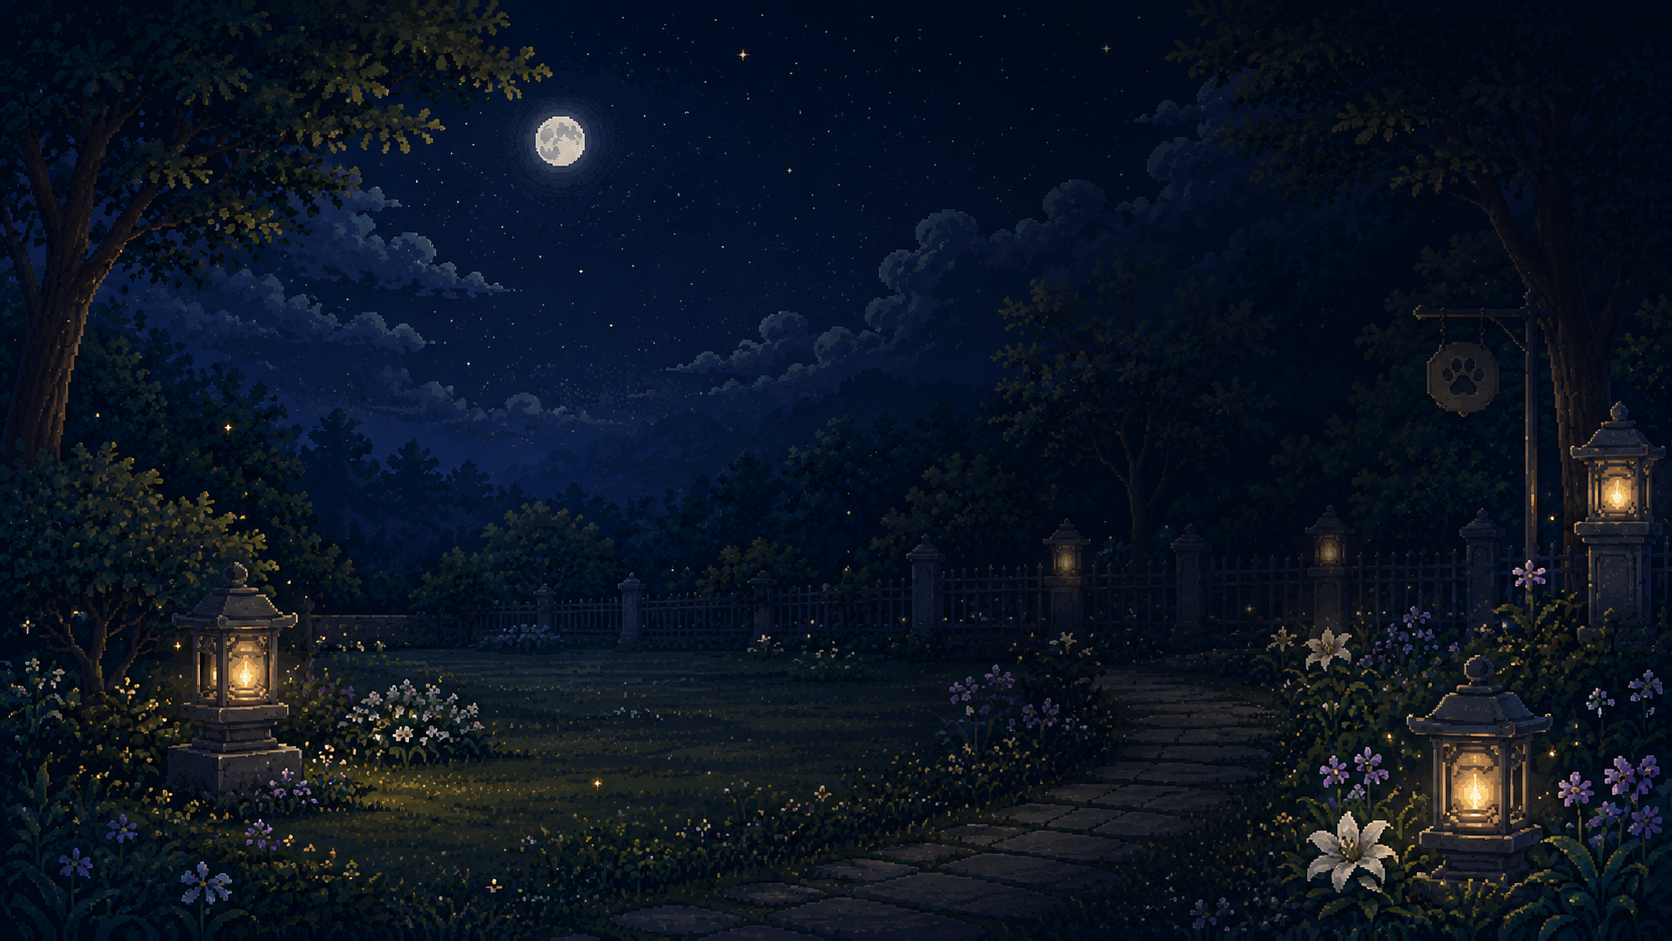
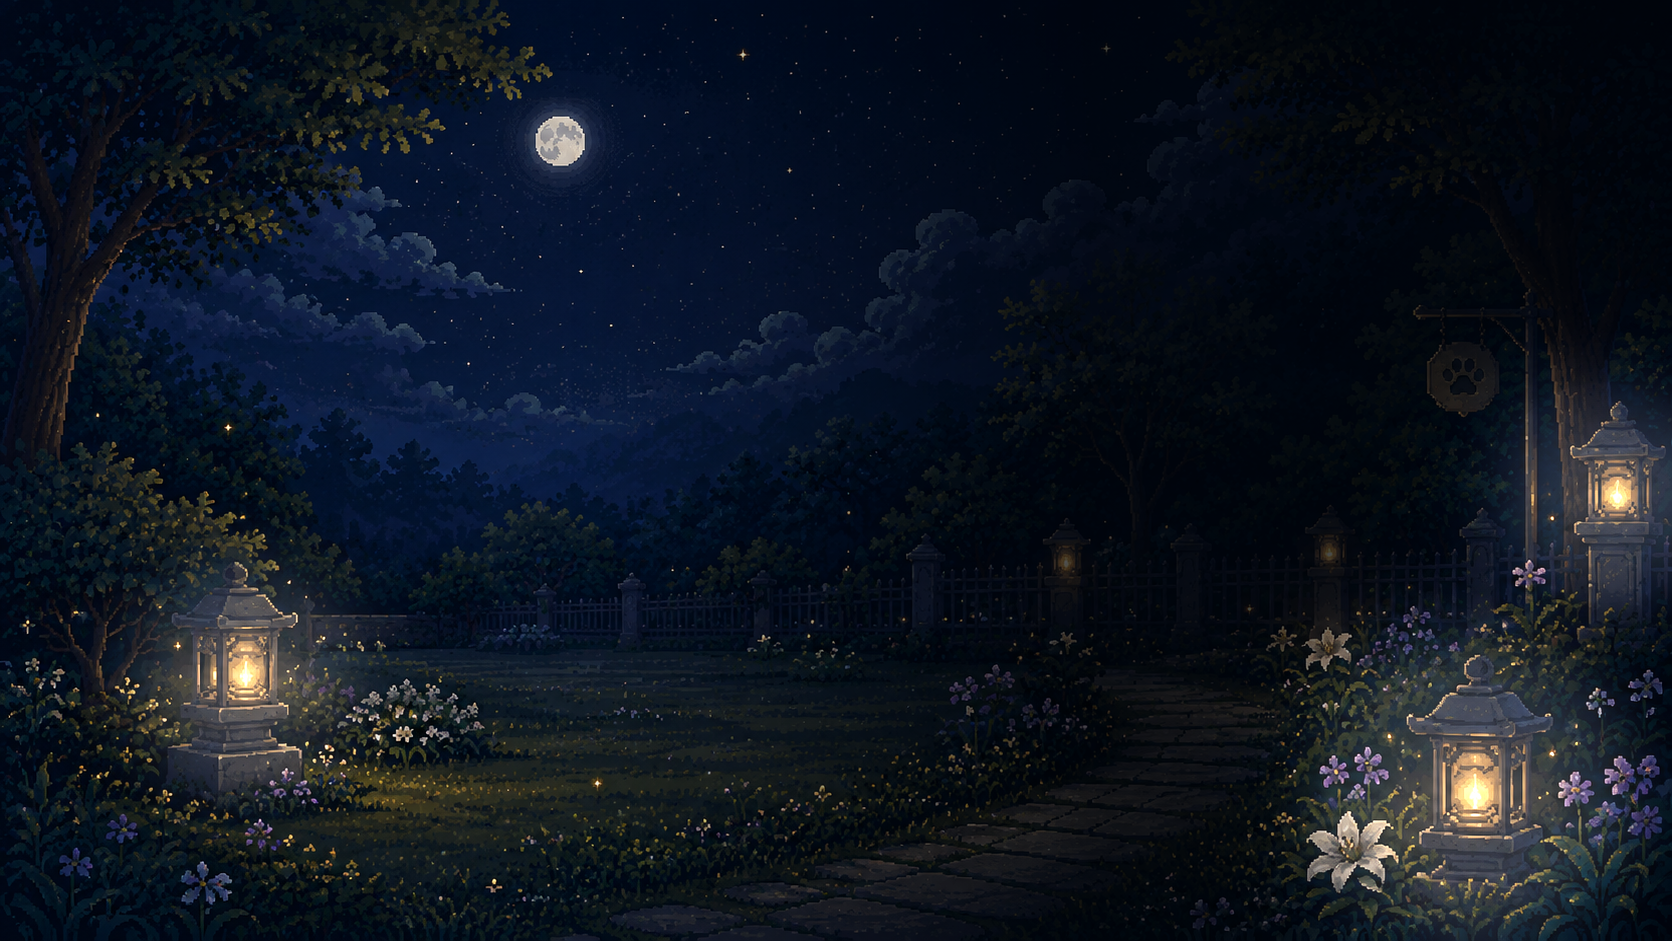
Add files via upload

diff --git a/create.html b/create.html
@@ -4,7 +4,7 @@
 <meta charset="UTF-8" />
 <meta name="viewport" content="width=device-width, initial-scale=1.0" />
 <title>创建墓碑｜STILLIGHT</title>
-<!-- version: v83-clean-right-background-contrast -->
+<!-- version: v84-black-right-bright-lamps -->
 <style>
 *{box-sizing:border-box}
 html,body{margin:0;width:100%;height:100%;overflow:hidden;background:#050d19}
